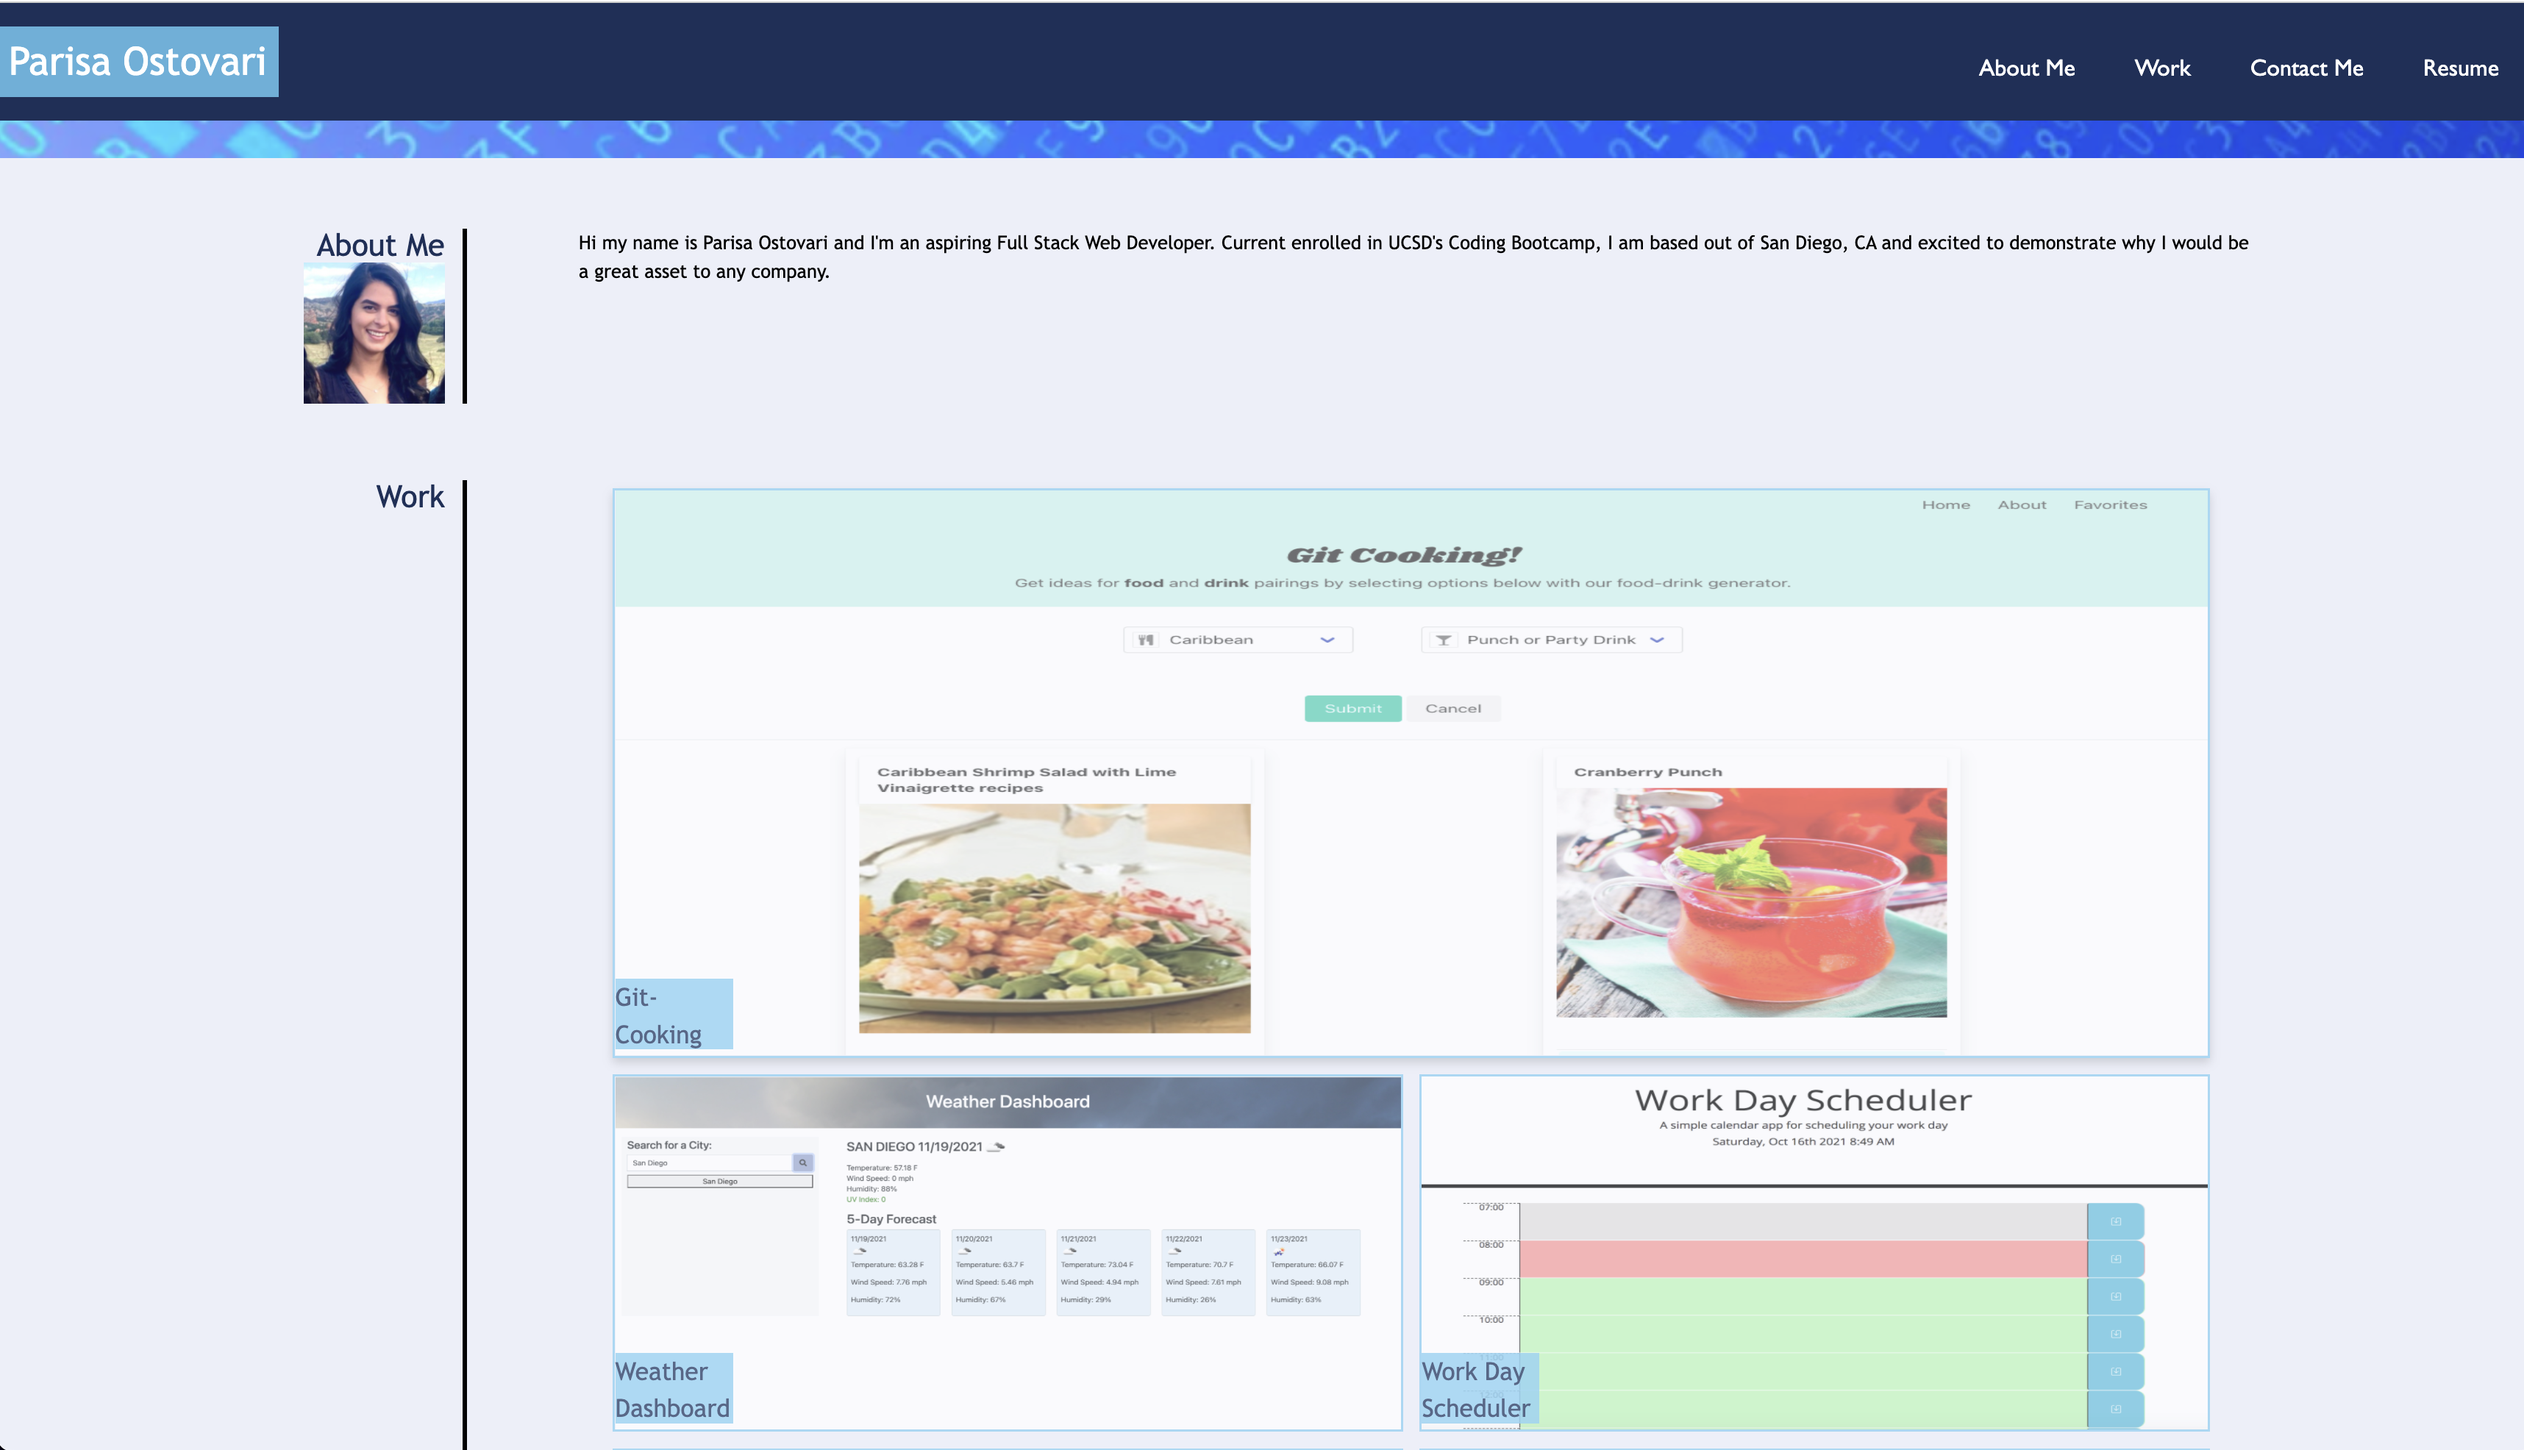
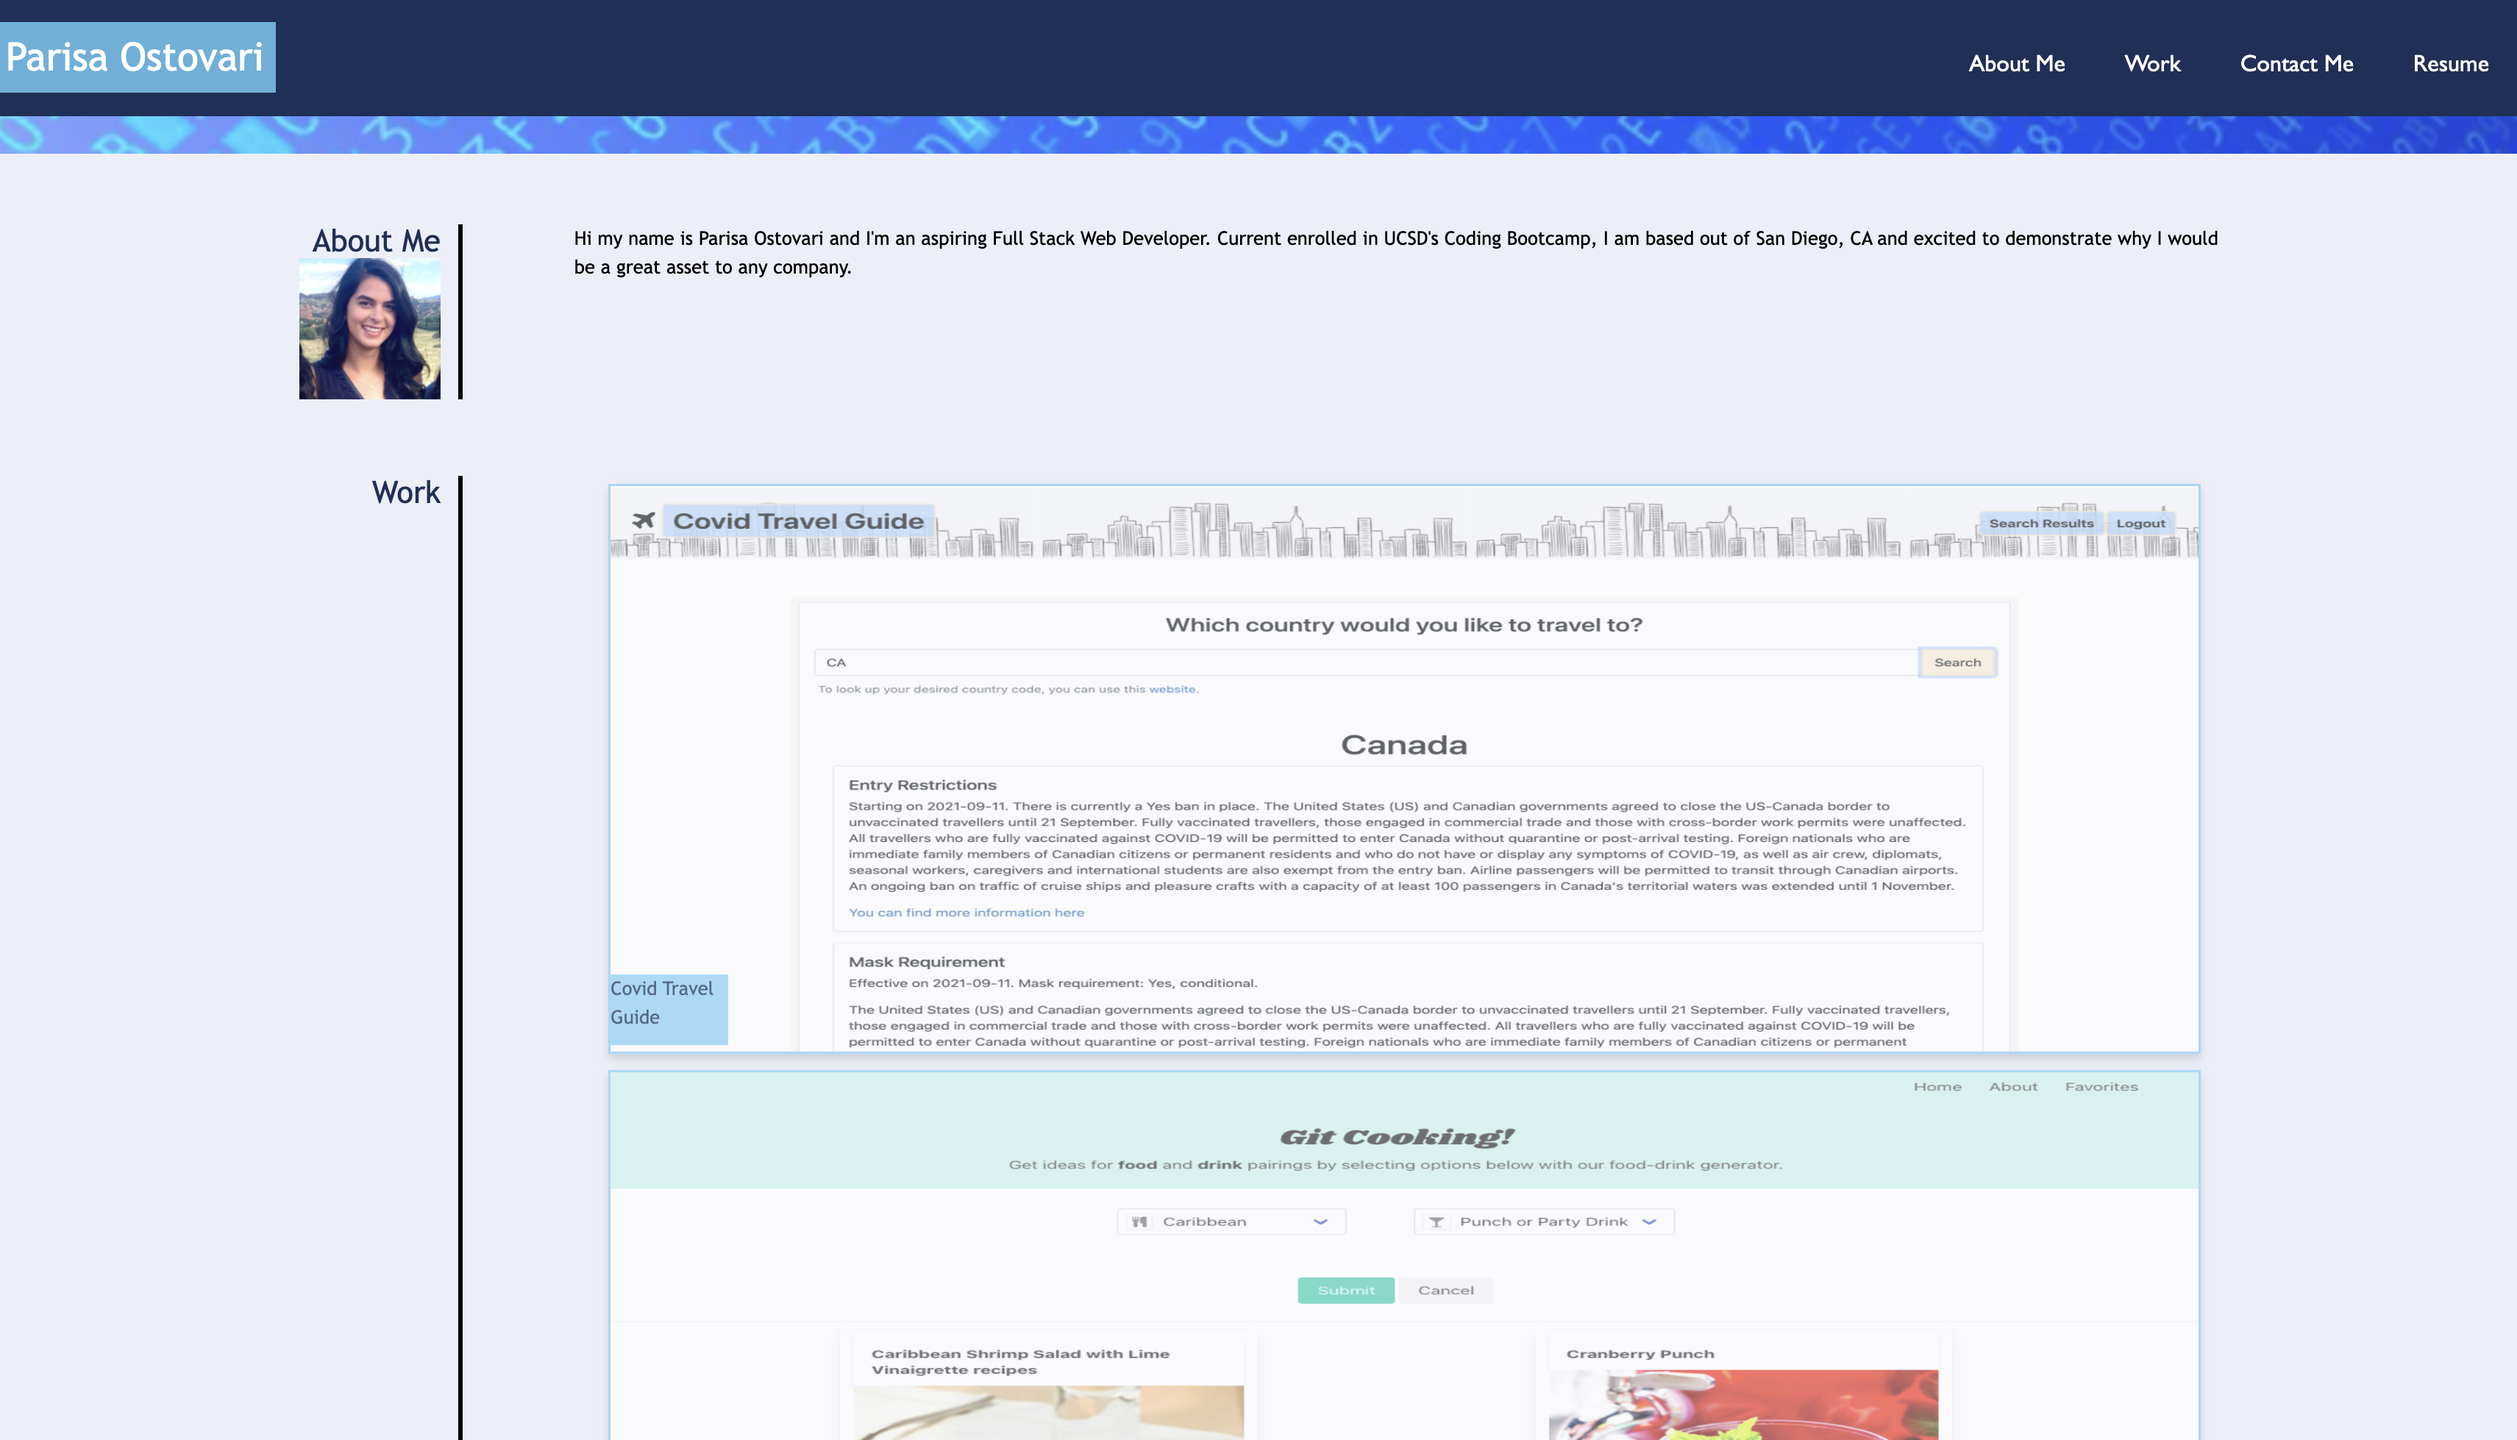
portfolio update #3

diff --git a/index.html b/index.html
@@ -1,5 +1,6 @@
 <!DOCTYPE html>
 <html lang="en">
+
 <head>
     <meta charset="UTF-8">
     <meta http-equiv="X-UA-Compatible" content="IE=edge">
@@ -13,39 +14,42 @@
     <!-- Header and Navbar -->
     <header>
         <h1>Parisa Ostovari</h1>
-            <nav>
-                <ul>
-                    <li>
-                        <a href="#AboutMe">About Me</a>
-                    </li>
-                    <li>
-                        <a href="#Work">Work</a>
-                    </li>
-                    <li>
-                        <a href="#ContactMe">Contact Me</a>
-                    </li>
-                    <li>
-                        <a href="./assets/links/Software Developer Resume.pdf" target="_blank">Resume</a>
-                    </li>
-                </ul>
-            </nav>
+        <nav>
+            <ul>
+                <li>
+                    <a href="#AboutMe">About Me</a>
+                </li>
+                <li>
+                    <a href="#Work">Work</a>
+                </li>
+                <li>
+                    <a href="#ContactMe">Contact Me</a>
+                </li>
+                <li>
+                    <a href="./assets/links/Software Developer Resume.pdf" target="_blank">Resume</a>
+                </li>
+            </ul>
+        </nav>
     </header>
 
- <!-- Div Banner -->
+    <!-- Div Banner -->
     <div class="hero"></div>
 
     <!-- Main Content -->
     <main class="content">
-     
+
         <!-- About Me -->
         <section class="main-content" id="AboutMe">
             <h2>About Me
                 <br>
-                <img src="https://media-exp1.licdn.com/dms/image/C5603AQHSab72T99MWA/profile-displayphoto-shrink_800_800/0/1643605305171?e=1652313600&v=beta&t=PcdPcMyhBFl5WZGdGWcLJ8uKVIeI0Y-Fq7l4sKpCzdA" alt="Git Cooking Screenshot" height="120px" width="120px" >
+                <img src="https://media-exp1.licdn.com/dms/image/C5603AQHSab72T99MWA/profile-displayphoto-shrink_800_800/0/1643605305171?e=1652313600&v=beta&t=PcdPcMyhBFl5WZGdGWcLJ8uKVIeI0Y-Fq7l4sKpCzdA"
+                    alt="Git Cooking Screenshot" height="120px" width="120px">
             </h2>
             <div>
                 <p>
-                    Hi my name is Parisa Ostovari and I'm an aspiring Full Stack Web Developer. Current enrolled in UCSD's Coding Bootcamp, I am based out of San Diego, CA and excited to demonstrate why I would be a great asset to any company.  
+                    Hi my name is Parisa Ostovari and I'm an aspiring Full Stack Web Developer. Current enrolled in
+                    UCSD's Coding Bootcamp, I am based out of San Diego, CA and excited to demonstrate why I would be a
+                    great asset to any company.
                 </p>
             </div>
         </section>
@@ -55,54 +59,67 @@
             <h2>Work</h2>
             <div class="grid-card">
 
+                <!-- Project 2 - Featured Image -->
+                <div class="card-feature">
+                    <a href="https://github.com/parisa-ostovari/CovidTravelRestrictions">
+                        <img src="./assets/images/Project 2 Screenshot.png"
+                            alt="Covid Travel Guide Screenshot" height="480px" width="100%">
+                        <div class="inside">
+                            <h4>Covid Travel Guide</h4>
+                        </div>
+                    </a>
+                </div>
                 <!-- Project 1 - Featured Image -->
                 <div class="card-feature">
-                    <a href="https://nmbeilke.github.io/Git-Cooking/" >
-                        <img src="https://raw.githubusercontent.com/nmbeilke/recipe-music-generator/main/home-page/assets/image/Screen%20Shot%202021-10-31%20at%204.38.18%20PM.png" alt="Git Cooking Screenshot" height="480px" width="100%" >
+                    <a href="https://nmbeilke.github.io/Git-Cooking/">
+                        <img src="https://raw.githubusercontent.com/nmbeilke/recipe-music-generator/main/home-page/assets/image/Screen%20Shot%202021-10-31%20at%204.38.18%20PM.png"
+                            alt="Git Cooking Screenshot" height="480px" width="100%">
                         <div class="inside">
                             <h3>Git-Cooking</h3>
                         </div>
                     </a>
                 </div>
-                
+
                 <!-- Project 2 -->
                 <div class="card">
                     <a href="https://parisa-ostovari.github.io/WeatherDashboard/">
-                        <img src="https://github.com/parisa-ostovari/WeatherDashboard/raw/main/assets/images/websiteScreenshot.png" alt="Weather Dashboard Screenshot" height="300px" width="100%" >
+                        <img src="https://github.com/parisa-ostovari/WeatherDashboard/raw/main/assets/images/websiteScreenshot.png"
+                            alt="Weather Dashboard Screenshot" height="300px" width="100%">
                         <div class="inside">
                             <h3>Weather Dashboard</h3>
                         </div>
                     </a>
                 </div>
 
-                  <!-- Project 3 -->
-                  <div class="card">
+                <!-- Project 3 -->
+                <div class="card">
                     <a href="https://parisa-ostovari.github.io/WorkDayScheduler/">
-                        <img src="https://github.com/parisa-ostovari/WorkDayScheduler/raw/main/images/SchedulerScreenshot.png" alt="Work Day Scheduler Screenshot" height="300px" width="100%" >
+                        <img src="https://github.com/parisa-ostovari/WorkDayScheduler/raw/main/images/SchedulerScreenshot.png"
+                            alt="Work Day Scheduler Screenshot" height="300px" width="100%">
                         <div class="inside">
                             <h3>Work Day Scheduler</h3>
                         </div>
                     </a>
                 </div>
 
-                  <!-- Project 4 -->
-                  <div class="card">
-                    <a href="#">
-                        <img src="./assets/images/Project4NodeJS.jpg" alt="Node.js logo" height="180px" width="100%" >
+                <!-- Project 4 -->
+                <div class="card">
+                    <a href="https://github.com/parisa-ostovari/SocialNetworkAPI">
+                        <img src="./assets/images/Social Network API Screenshot.png" alt="Social Network API Insomnia Screenshot" height="300px" width="100%">
                         <div class="inside">
-                            <h3>Project 4</h3>
-                            <p>"Node.js"</p>
+                            <h4>Social Network API</h4>
                         </div>
                     </a>
                 </div>
 
-                  <!-- Project 5 -->
-                  <div class="card">
+                <!-- Project 5 -->
+                <div class="card">
                     <a href="#">
-                        <img src="./assets/images/Project5React.jpg" alt="Reflective Marble" height="180px" width="100%" >
+                        <img src="./assets/images/Project5React.jpg" alt="Reflective Marble" height="300px"
+                            width="100%">
                         <div class="inside">
-                            <h3>Project 5</h3>
-                            <p>"React"</p>
+                            <h3>Project 3</h3>
+                            <p>"GraphQL"</p>
                         </div>
                     </a>
                 </div>
@@ -125,13 +142,14 @@
         </section>
 
     </main>
-    
+
     <!-- Footer -->
     <footer>
         <p>
             Copyright © 2021 Parisa Ostovari. All rights reserved.
         </p>
     </footer>
-    
+
 </body>
+
 </html>

diff --git a/README.md b/README.md
@@ -1,8 +1,8 @@
-# Parisa Ostovari's Portfolio Update #2
+# Parisa Ostovari's Portfolio Update #3
 
 ## Description
 
-This is update # 2 for my introductory personal portfolio as a Full-Stack Web Developer. With the usage of HTML and CSS, I created this website in order to demonstrate my skills and experience to future employers and clients.
+This is update # 3 for my introductory personal portfolio as a Full-Stack Web Developer. With the usage of HTML and CSS, I created this website in order to demonstrate my skills and experience to future employers and clients.
 
 Link to Website: https://parisa-ostovari.github.io/portfolio/
 
